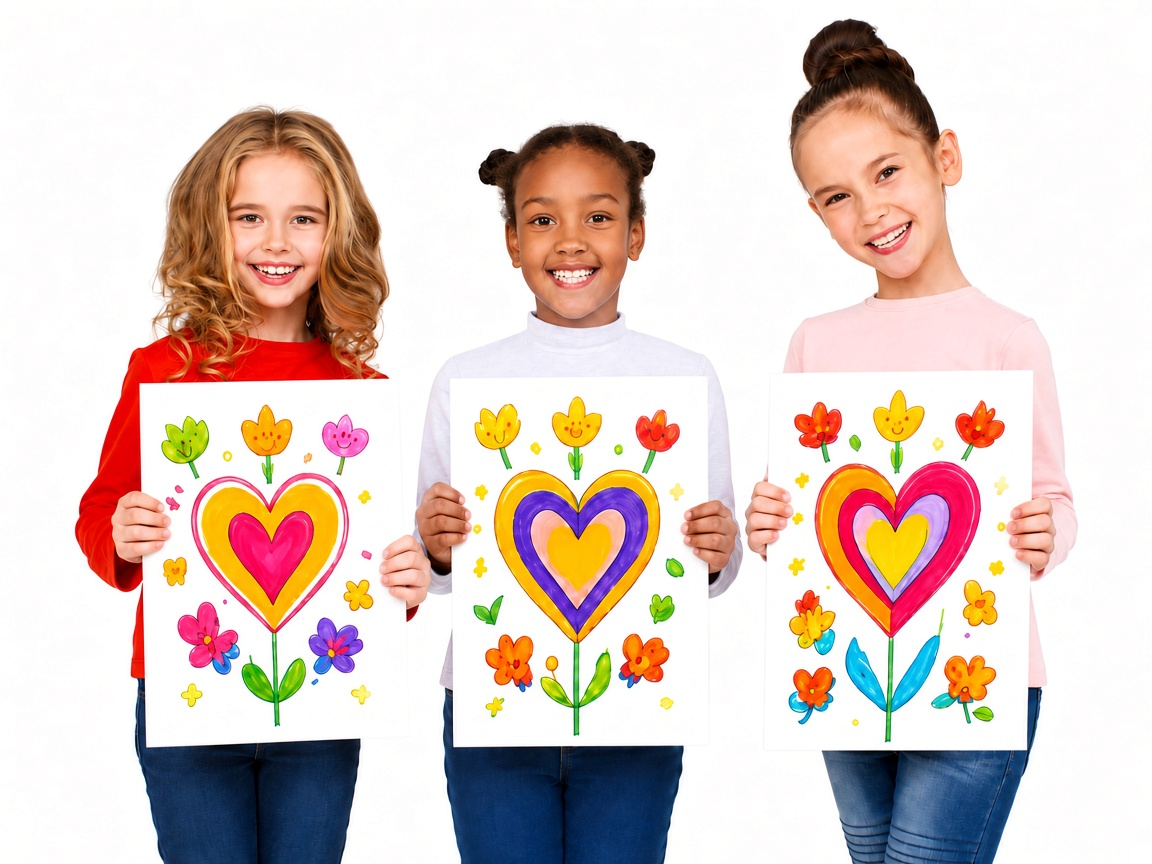
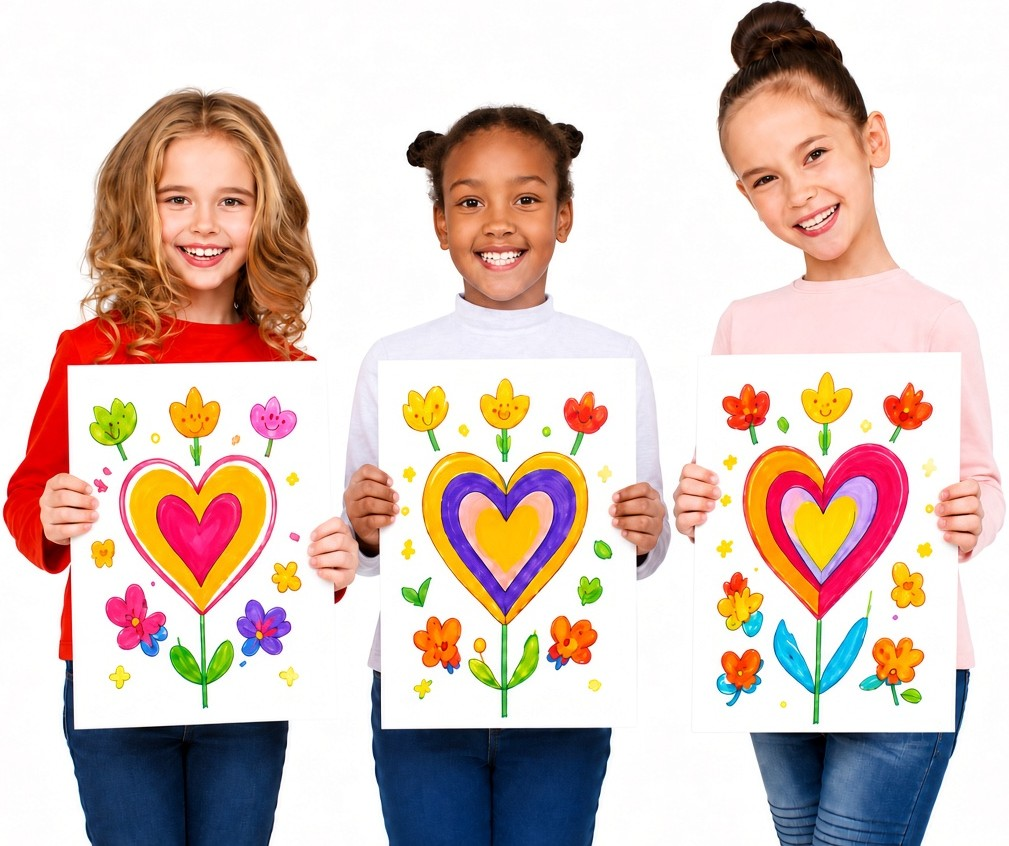
afssadf

diff --git a/assets/css/style.css b/assets/css/style.css
@@ -3179,6 +3179,10 @@ img.lazy-img.loaded {
   filter: none;
 }
 
+.our-vision-page .vision-hero .about-hero__banner {
+  transform: none;
+}
+
 .explore-hero .page-hero__content {
   width: 100%;
   max-width: var(--explore-hero-content-max);
@@ -22277,42 +22281,76 @@ body.newsletter-success-open {
   }
 }
 
-/* Our Vision hero — desktop: 0px gap between text and image (≥1024px) */
+/* Our Vision hero — desktop: modest center gap; banner right-aligned in container (≥1024px) */
 @media (min-width: 1024px) {
   .page-hero.vision-hero:not(.partners-hero) .page-hero__inner,
   .our-vision-page .page-hero.vision-hero:not(.partners-hero) .page-hero__inner {
-    gap: 0 !important;
-    column-gap: 0 !important;
+    gap: clamp(1rem, 2.5vw, 2rem) !important;
+    column-gap: clamp(1rem, 2.5vw, 2rem) !important;
+    align-items: center !important;
   }
 
   .page-hero.vision-hero:not(.partners-hero) .page-hero__content,
   .our-vision-page .page-hero.vision-hero:not(.partners-hero) .page-hero__content {
-    flex: 0 0 auto !important;
+    flex: 0 1 auto !important;
     width: auto !important;
     max-width: 520px !important;
     margin-right: 0 !important;
     padding-right: 0 !important;
+    align-self: center !important;
   }
 
   .page-hero.vision-hero:not(.partners-hero) .about-hero__media,
   .page-hero.vision-hero:not(.partners-hero) .hero-image-wrap,
   .our-vision-page .page-hero.vision-hero:not(.partners-hero) .about-hero__media,
   .our-vision-page .page-hero.vision-hero:not(.partners-hero) .hero-image-wrap {
-    flex: 1 1 0 !important;
-    justify-content: flex-start !important;
-    align-items: flex-end !important;
+    flex: 1 1 58% !important;
+    min-width: 0 !important;
+    justify-content: flex-end !important;
+    align-items: center !important;
+    align-self: center !important;
     margin-left: 0 !important;
     padding-left: 0 !important;
+    padding-right: 0 !important;
+    overflow: visible !important;
+  }
+
+  .page-hero.vision-hero:not(.partners-hero) .about-hero__media .lazy-img-wrap,
+  .page-hero.vision-hero:not(.partners-hero) .about-hero__media picture,
+  .page-hero.vision-hero:not(.partners-hero) .hero-image-wrap .lazy-img-wrap,
+  .page-hero.vision-hero:not(.partners-hero) .hero-image-wrap picture,
+  .our-vision-page .page-hero.vision-hero:not(.partners-hero) .about-hero__media .lazy-img-wrap,
+  .our-vision-page .page-hero.vision-hero:not(.partners-hero) .about-hero__media picture,
+  .our-vision-page .page-hero.vision-hero:not(.partners-hero) .hero-image-wrap .lazy-img-wrap,
+  .our-vision-page .page-hero.vision-hero:not(.partners-hero) .hero-image-wrap picture {
+    display: flex !important;
+    justify-content: flex-end !important;
+    align-items: center !important;
+    width: 100% !important;
+    max-width: none !important;
+    margin: 0 !important;
+    padding: 0 !important;
+    overflow: visible !important;
   }
 
   .page-hero.vision-hero:not(.partners-hero) .about-hero__banner,
   .our-vision-page .page-hero.vision-hero:not(.partners-hero) .about-hero__banner,
   .our-vision-page .page-hero.vision-hero:not(.partners-hero) picture img.about-hero__banner {
+    display: block !important;
     transform: none !important;
-    object-position: left bottom !important;
+    transform-origin: center right !important;
+    object-fit: contain !important;
+    object-position: right center !important;
     width: 100% !important;
     max-width: 100% !important;
-    max-height: none !important;
+    height: auto !important;
+    max-height: min(430px, 60vh) !important;
+    min-height: 0 !important;
+    margin-left: auto !important;
+    margin-right: 0 !important;
+    filter: none !important;
+    background: transparent !important;
+    background-color: transparent !important;
   }
 }
 
@@ -27073,6 +27111,32 @@ body.newsletter-success-open {
     padding-right: var(--container-padding) !important;
     padding-top: 0 !important;
     padding-bottom: 0 !important;
+  }
+}
+
+/* Our Vision — hero banner: cropped assets align with header right edge (desktop) */
+@media (min-width: 1024px) {
+  .our-vision-page #main-content > section.page-hero.vision-hero:not(.partners-hero) .page-hero__inner,
+  .our-vision-page .page-hero.vision-hero:not(.partners-hero) .page-hero__inner {
+    align-items: center !important;
+  }
+
+  .our-vision-page #main-content > section.page-hero.vision-hero:not(.partners-hero) .about-hero__media,
+  .our-vision-page #main-content > section.page-hero.vision-hero:not(.partners-hero) .hero-image-wrap,
+  .our-vision-page .page-hero.vision-hero:not(.partners-hero) .about-hero__media,
+  .our-vision-page .page-hero.vision-hero:not(.partners-hero) .hero-image-wrap {
+    justify-content: flex-end !important;
+    align-items: center !important;
+  }
+
+  .our-vision-page #main-content > section.page-hero.vision-hero:not(.partners-hero) .about-hero__banner,
+  .our-vision-page #main-content > section.page-hero.vision-hero:not(.partners-hero) picture img.about-hero__banner,
+  .our-vision-page .page-hero.vision-hero:not(.partners-hero) .about-hero__banner,
+  .our-vision-page .page-hero.vision-hero:not(.partners-hero) picture img.about-hero__banner {
+    max-height: min(430px, 60vh) !important;
+    object-position: right center !important;
+    margin-left: auto !important;
+    margin-right: 0 !important;
   }
 }
 
